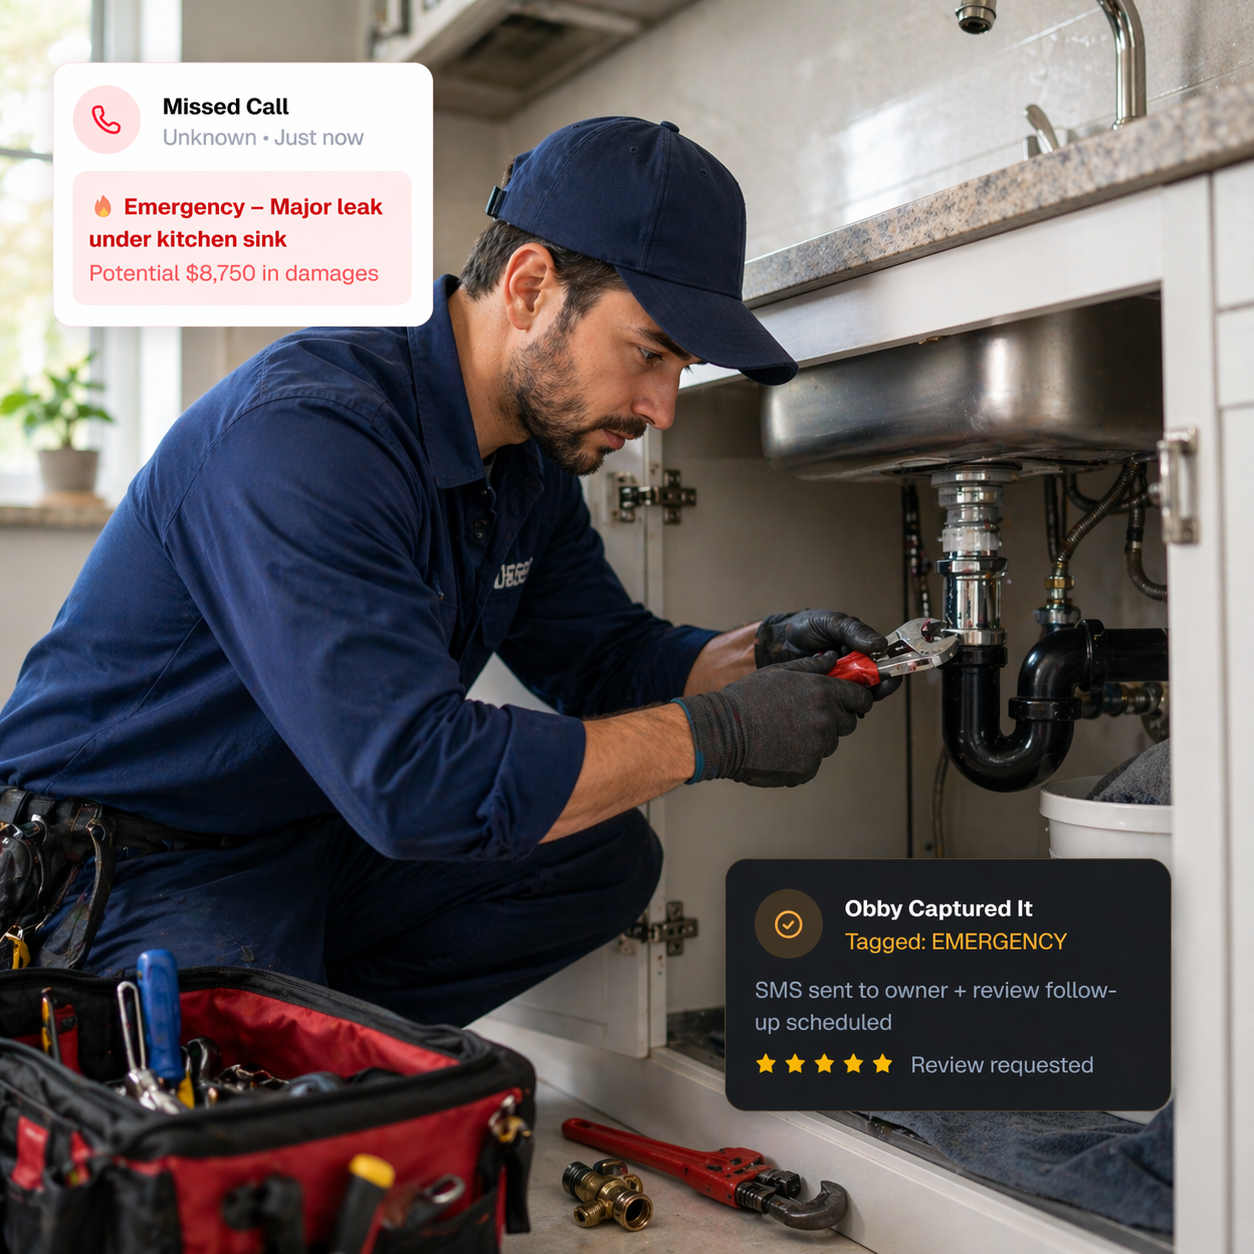
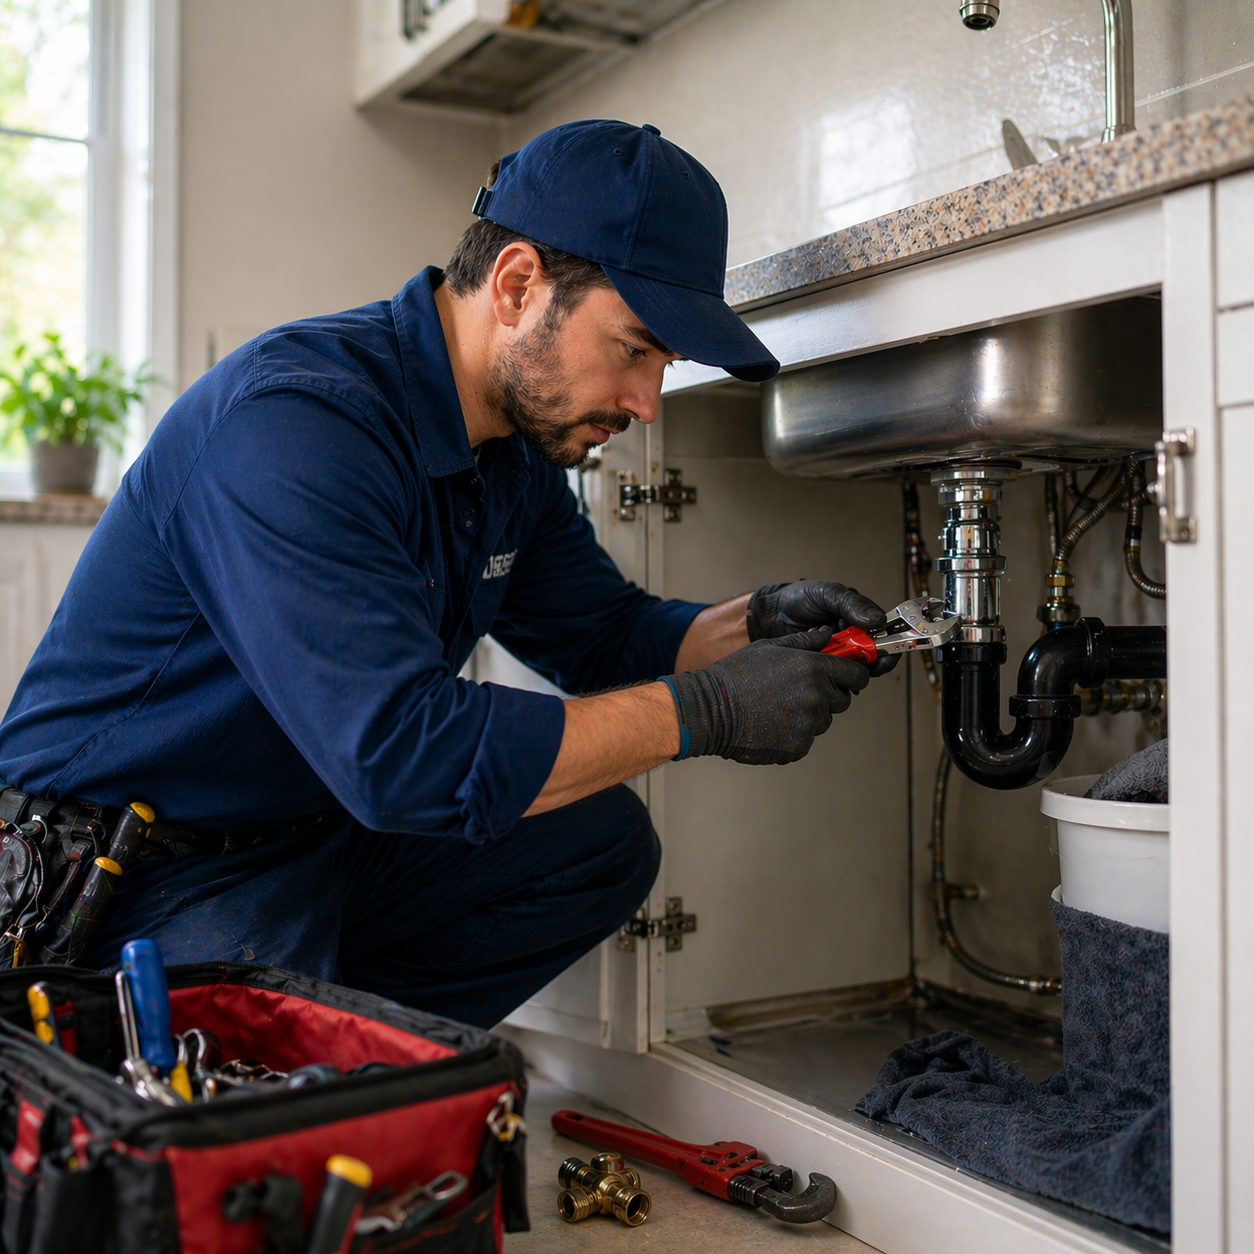
Remove duplicate popup cards below mobile hero image

diff --git a/src/components/HeroSection.tsx b/src/components/HeroSection.tsx
@@ -80,49 +80,6 @@ export default function HeroSection() {
               />
               <div className="absolute inset-0 bg-black/25 pointer-events-none" />
             </div>
-
-            {/* Cards flush below image */}
-            <div className="flex gap-2 mt-2">
-              {/* Missed call */}
-              <div className="flex-1 bg-white rounded-xl shadow-lg p-2.5 border border-red-100">
-                <div className="flex items-center gap-2 mb-1.5">
-                  <div className="w-7 h-7 bg-red-100 rounded-full flex-shrink-0 flex items-center justify-center">
-                    <Phone className="w-3 h-3 text-red-500" />
-                  </div>
-                  <div>
-                    <p className="text-[11px] font-bold text-black leading-tight">Missed Call</p>
-                    <p className="text-[10px] text-gray-400">Unknown • Just now</p>
-                  </div>
-                </div>
-                <div className="bg-red-50 rounded-lg p-1.5">
-                  <p className="text-[10px] text-red-700 font-semibold leading-tight">🚨 Emergency – Sewer backup flooding basement</p>
-                  <p className="text-[10px] text-red-400 mt-0.5">Potential $8,500 sewer line</p>
-                </div>
-              </div>
-
-              {/* Obby captured */}
-              <div
-                className="flex-1 rounded-xl shadow-lg p-2.5 border"
-                style={{ backgroundColor: "#17191E", borderColor: "rgba(var(--accent-rgb), 0.3)" }}
-              >
-                <div className="flex items-center gap-2 mb-1.5">
-                  <div className="w-7 h-7 rounded-full flex-shrink-0 flex items-center justify-center" style={{ backgroundColor: "rgba(var(--accent-rgb), 0.15)" }}>
-                    <CheckCircle2 className="w-3 h-3" style={{ color: "var(--accent)" }} />
-                  </div>
-                  <div>
-                    <p className="text-[11px] font-bold text-white leading-tight">Obby Captured It</p>
-                    <p className="text-[10px]" style={{ color: "var(--accent)" }}>Tagged: EMERGENCY</p>
-                  </div>
-                </div>
-                <p className="text-[10px] text-gray-400 mb-1.5 leading-tight">SMS sent to owner + review follow-up scheduled</p>
-                <div className="flex items-center gap-0.5">
-                  {[...Array(5)].map((_, i) => (
-                    <Star key={i} className="w-2.5 h-2.5 fill-yellow-400 text-yellow-400" />
-                  ))}
-                  <span className="text-[10px] text-gray-500 ml-1">Review requested</span>
-                </div>
-              </div>
-            </div>
           </div>
 
           {/* Right: Hero Image + Floating Cards */}
